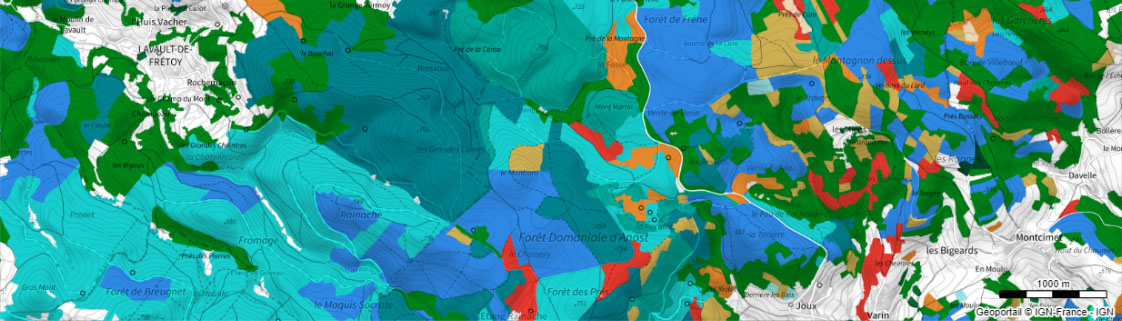
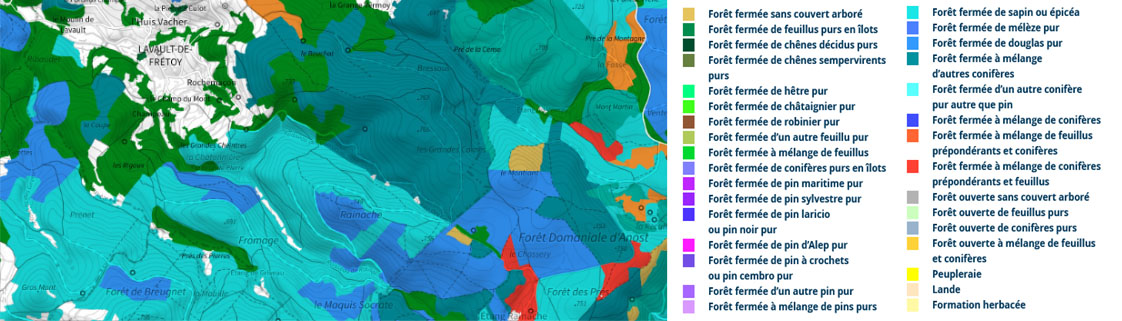
[TYPO]

diff --git a/chap-2/2.3-donnees.md b/chap-2/2.3-donnees.md
@@ -16,7 +16,7 @@ Globe terrestre par Delamarche, 1808 - [BnF](https://gallica.bnf.fr/ark:/12148/b
 L'information géographique est la représentation d'un objet ou d'un phénomène réel ou imaginaire, présent, passé ou futur, localisé dans l'espace à un moment donné (on parle de géolocalisation).
 
 Elle contient une information liée à sa position sur le globe (ou plus généralement dans l'espace) : **sa géométrie** et des informations descriptives sémantiques qui indique sa nature, son aspect, ses propriétés, etc. : **ses attributs**.   
-Dans certains cas, elle peut également contenir des relations avec d'autre objets : c'est le niveau **topologique** (le sens de parcourt, la communication ou non dans un réseau, etc.). Certaines de ces relations peuvent se déduire de la géométrie des objets (inclusions, adjacences, etc.) d'autres nécessitent un encodage particulier.
+Dans certains cas, elle peut également contenir des relations avec d'autre objets : c'est le niveau **topologique** (le sens de parcourt, la communication ou non dans un réseau, etc.). Certaines de ces relations peuvent se déduire de la géométrie des objets (inclusions, adjacences, etc.), d'autres nécessitent un encodage particulier.
 
 {: .idea }
 On parlera de **données vecteur** pour les distinguer des données image (ou raster).
@@ -24,18 +24,18 @@ On parlera de **données vecteur** pour les distinguer des données image (ou ra
 # La géométrie
 
 Points, lignes et surfaces sont les trois possibilités d'implémentation sur un espace en deux dimensions.    
-Ce sont des figurés polysémiques qu'on peut interpréter tantôt comme le référant des objets dans l'espace réel, tantôt comme les variables visuelles qui expriment les rapports de ces objets entre eux.
+Ce sont des figurés polysémiques qu'on interprète tantôt comme la représentation des objets dans l'espace réel (forme), tantôt comme la variable qui exprime les rapports de ces objets entre eux (position).
 
 {: .figure }
 ![](/Macarte-MI/assets/img/ch2.3-geom.png)   
 Barre d'outils de saisie de la géométrie dans Ma carte
 
-Suivant de l'échelle ou du degré d'abstraction utilisé l'une ou l'autre de ces implémentation pourra être utilisée pour un même objet. Ainsi, un point peut représenter une maison, un îlot urbain, une agglomération, etc. suivant l'échelle de la carte. Une route va être vue comme une surface par le cantonnier qui doit la goudronner ou par une ligne reliant deux villes pour l'automobiliste qui la parcourt.
+Suivant l'échelle ou le degré d'abstraction utilisé l'une ou l'autre de ces implémentation pourra être utilisée pour un même objet. Ainsi, un point peut représenter une maison, un îlot urbain, une agglomération, etc. suivant l'échelle de la carte. Une route va être vue comme une surface par le cantonnier qui doit la goudronner ou par une ligne reliant deux villes pour l'automobiliste qui la parcourt.
 
 ## le point
 
 <i class="fg-multipoint fg-3x fleft"></i> Le point traduit aussi bien un objet concret localisé qu'un objet conçu intellectuellement. Il définit les coordonnées géographiques mais peut aussi exprimer une dynamique (pôle de dispersion ou d'attraction).   
-Si on introduit une quatrième dimension (le temps) le point peut être l'emplacement d'un évènement le long d'une ligne à un temps ou une distance donnée (pointeur kilométrique).   
+Si on introduit une quatrième dimension (le temps) le point peut être l'emplacement d'un évènement le long d'une ligne à un temps ou une distance donné (pointeur kilométrique).   
 Il peut être déduit d'une surface (barycentre ou centroïde) pour en simplifier la représentation à certaines échelles.
 
 ## la ligne
@@ -68,9 +68,9 @@ L'annotation du bassin de Thau sur la carte IGN s'appuie sur une géométrie lin
 
 # les attributs 
 
-Les attributs stockent le descriptif des objets géographiques, par exemple, le numéro d'une parcelle, le nom d'une route ou le nombre d'habitant d'une localité.
+Les attributs stockent le descriptif des objets géographiques, par exemple, le numéro d'une parcelle, le nom d'une route ou le nombre d'habitants d'une localité.
 
-Ils se déclinent en trois type de données : descriptive (qui décrive l'objet en propre), qualitative (qui décrive des qualités ou catégories d'un objet) et quantitative (qui mesure un phénomène).
+Ils se déclinent en trois types de données : descriptives (qui décrivent l'objet en propre), qualitatives (qui décrivent des qualités ou catégories d'un objet) et quantitatives (qui mesurent un phénomène).
 
 ## les données descriptives
 
@@ -99,7 +99,7 @@ Données ordinales
 
 ## les données quantitatives 
 
-Les données quantitative exprime une information issue d'une mesure (superficie) ou d'un dénombrement (population).
+Les données quantitative expriment une information issue d'une mesure (superficie) ou d'un dénombrement (population).
 
 {: .center }
 Données quantitatives
@@ -108,61 +108,70 @@ Données quantitatives
 |:-----:|:-----:|:-------:|
 | production <br/> ![](/Macarte-MI/assets/img/ch2.3-quantit-pt.png) | écoulement <br/> ![](/Macarte-MI/assets/img/ch2.3-quantit-ln.png) | précipitations <br/>  ![](/Macarte-MI/assets/img/ch2.3-quantit-pl.png) |
 
-On distingue les données quantitatives absolues (population, nombre de commerces) et relatives qui représente un rapport d'une donnée absolue sur un référentiel (densité, taux).
+On distingue les données quantitatives absolues (population, nombre de commerces) et relatives qui représentent un rapport d'une donnée absolue sur un référentiel (densité, taux).
 
 ## la discrétisation
 
-Principalement utilisée en statistique, la discrétisation est une réduction de l'information pour apporter une simplification dans le but généralement d'améliorer la lisibilité. Cela va permettre de découper une série statistique en classes ou transformer une variable continue en variable discrète plus facilement interprétable.
+Principalement utilisée en statistique, la discrétisation est une réduction de l'information pour apporter une simplification dans le but, généralement, d'améliorer la lisibilité. Cela va permettre de découper une série statistique en classes ou transformer une variable continue en variable discrète plus facilement interprétable.
 
-Le choix des classes (regroupement), série (combinaison de données) ou seuil (limite entre deux classes) est primordiale et est nécessairement un compromis entre la rigueur mathématique et la représentation cartographique.
+Le choix des classes (regroupement), séries (combinaisons de données) ou seuils (limites entre deux classes) est primordiale et est nécessairement un compromis entre la rigueur mathématique et la représentation cartographique.
 
 # les couches
 
-<i class="fg-layers fg-3x fleft"></i> Les données géographiques (géométrie et attributs) sont regroupées dans des couches pour en faciliter la gestion. Pour des raisons de commodités, celles-ci forment un regroupement thématique ou organisationnel qui permet de manipuler d'un bloc l'ensemble les données qu'elles contiennent (afficher, changer leur ordre d'affichage, appliquer une symbolisation, etc.).   
+<i class="fg-layers fg-3x fleft"></i> Les données géographiques (géométrie et attributs) sont regroupées dans des couches pour en faciliter la gestion. Pour des raisons de commodité, celles-ci forment un regroupement thématique ou organisationnel qui permet de manipuler d'un bloc l'ensemble les données qu'elles contiennent (afficher, changer l'ordre d'affichage, appliquer une symbolisation, etc.).   
 Une couche peut parfois se limiter à un type de géométrie spécifique (couche de point, couche d'annotations) et avoir un ensemble d'attributs ou de règles de représentation spécifiques et imposés.
 
-Les couches de référence ou de dessin sont disponible dans le gestionnaire de couche (pour en modifier l'ordre, la visibilité ou la transparence par exemple). Elles sont parfois appelées "*calques*" par analogie aux papiers calques qu'on superpose dans un processus de reproduction pour former une image.
+Les couches de référence ou de dessin sont disponibles dans le gestionnaire de couche (pour en modifier l'ordre, la visibilité ou la transparence par exemple). Elles sont parfois appelées "*calques*" par analogie aux papiers calques qu'on superpose dans un processus de reproduction pour former une image.
 
+{: .center .small .shadow }
+![](/Macarte-MI/assets/img/ch2.3-switcher.png)   
+Gestionnaire de couche de Ma carte
 
 # Où trouver des données ?
 
-Si on peut saisir des objets à la main dans les éditeurs cartographique, la question qui se pose assez rapidement est « Où trouver des données ? »   
-C'est d'autant plus légitime qu'avec l'ouverture des données ([mouvement Opendata](https://www.cnil.fr/fr/publication-en-ligne-et-reutilisation-des-donnees-publiques-open-data)) le nombre d'organisme et de plateforme proposant de télécharger des données s'est multiplié sur le web.   
-En dehors des flux cartographiques mis à disposition que nous avons [vu précédemment](/Macarte-MI/chap-2/2.1-fonds.html), on peut ainsi télécharger directement des données à caractère géographique via des fichiers diffusés sur le net. On distinguera les formats de données géographique, exploitable directement, qui contiennent la représentation géométrique des objets et les données attributaires qui demanderont un traitement préalable pour être affiché sur une carte.
+Si on peut saisir des objets à la main dans les éditeurs cartographiques, la question qui se pose assez rapidement est « Où trouver des données ? »   
+C'est d'autant plus légitime qu'avec l'ouverture des données ([mouvement open data](https://www.cnil.fr/fr/publication-en-ligne-et-reutilisation-des-donnees-publiques-open-data)) le nombre d'organismes et de plateformes proposant de télécharger des données s'est multiplié sur le web.   
+En dehors des flux cartographiques mis à disposition que nous avons [vu précédemment](/Macarte-MI/chap-2/2.1-fonds.html#choisir-ses-fonds), il est aujourd'hui possible de télécharger directement des données à caractère géographique via des fichiers diffusés sur le net. On distinguera les formats de données géographiques, exploitables directement, qui contiennent la représentation géométrique des objets et les données attributaires qui demanderont un traitement préalable pour être affiché sur une carte.
 
 ## Les données géographiques
 
 Ces données contenant toute l'information nécessaire à la géographique, il suffit généralement de glisser-déposer le fichier sur l'[éditeur de carte](https://macarte.ign.fr/edition/carte/) pour les voir s'afficher sur la carte.
 
-A l'inverse, vous pouvez exporter les données saisies dans Ma carte dans le dialogue de configuration la couche <i class="fa fa-cog outline"></i> dans le gestionnaire de calques) et en cliquant sur l'icône d'export <i class="fa fa-download"></i>.
+A l'inverse, vous pouvez exporter les données saisies dans Ma carte dans le dialogue de configuration de la couche (<i class="fi-configuration fa-fw"></i> dans le gestionnaire de calques) en cliquant sur l'icône d'export <i class="fi-download fa-fw"></i>.
 
 ### le GPX
 
-Le format GPX, acronyme de GPS eXchange Format, est le format de prédilection des GPS et autre appareils permettant d'enregistre votre localisation.
-Le fichier GPX enregistre la liste de points de cheminements (latitude, longitude, altitude et éventuellement un horodatage) et conviendra pour échanger des points de rendez-vous ou des cheminements.
+Le format GPX, acronyme de GPS eXchange Format, est le format de prédilection des GPS et autre appareils permettant d'enregistrer votre localisation.   
+Le fichier GPX enregistre la liste des points de cheminement (latitude, longitude, altitude et éventuellement un horodatage) et conviendra pour échanger des points de rendez-vous ou des parcours.
 
 Il peut contenir des points (waypoint) ou des lignes, sous forme d'itinéraires (routes) ou de traces (tracks). Il ne peut pas contenir de surfaces.
 
 ### le KML
 
-Le format KML, pour Keyhole Markup Language, est destiné à la gestion de l'affichage de données géospatiales. Il permet de stocker toutes les données géospatiale ainsi que des informations sur le style (couleur, largeur de ligne, etc.).   
-Initialement développé par Keyhole Inc. (racheté par Google en 2004) le format est, depuis 2008, normalisé par l'[Open Geospatial Consortium](https://www.ogc.org/standard/kml/).
+Le format KML, pour Keyhole Markup Language, est destiné à la gestion de l'affichage de données géospatiales. Il permet de stocker toutes les données géospatiales ainsi que des informations sur le style (couleur, largeur de ligne, etc.).   
+Initialement développé par la société Keyhole Inc. (racheté par Google en 2004), il est, depuis 2008, normalisé par l'[Open Geospatial Consortium](https://www.ogc.org/standard/kml/).
 
 ### le GeoJSON
 
-Le GeoJSON est le format de prédilection des données géospatiales sur le web. Extensible, il peut décrire tout type d'information géographique et, lorsque vous en avez la possibilité, c'est le format à privilégié.
+Le GeoJSON (litt. JSON géographique) est le format ouvert par excellence des données géospatiales sur le web. Extensible, il peut décrire tout type d'information géographique et, lorsque vous en avez la possibilité, c'est le format à privilégier.
 
 ### le format shape
 
-Le shapefile, ou « fichier de formes » est un format de fichier pour les systèmes d'informations géographiques (SIG). Initialement développé par ESRI pour ses logiciels commerciaux, ce format est désormais devenu un standard de facto, dont les spécifications sont ouvertes.   
+Le Shapefile (litt. fichier de formes) est un format de fichier pour les systèmes d'informations géographiques (SIG). Initialement développé par ESRI pour ses logiciels commerciaux, ce format est désormais devenu un standard de facto, dont les spécifications sont ouvertes.   
 
 Si son extension est classiquement SHP, il est en fait constitué de plusieurs fichiers dont un fichier qui stocke la donnée attributaire (dbf) et la géométrie (shx), ce qui complique son utilisation dans des outils web.
 
 Il n'est pas reconnu par Ma carte et il faudra passer par une application tierce pour le transformer en GeoJSON par exemple.
 
+### les Géopackages
+
+Le GeoPackage (litt. geo-paquet) est un format de fichier pour les systèmes d'informations géographiques (SIG). Un GeoPackage (*.gpkg) est construit comme un fichier de base de données SQLite qui contient les tables de données. Spécialement conçu pour être aussi léger que possible, il se présente sous la forme d'un fichier unique, ce qui le rend particulièrement efficace.
+
+Il n'est pas reconnu par Ma carte.
+
 ### les flux WFS
 
-Ce ne sont pas à proprement parlé des fichiers de données (puisque ce sont des flux) mais, comme ils intègrent des données vecteurs, on peut y récupérer de l'information utile dans Ma carte. Pour cela, il vous suffira d'ajouter la couche WFS à la carte, de sélectionner le ou les objets qui vous intéressent et de les copier-coller dans votre couche de dessin. Ils seront accessibles comme des objets standards et vous pouvez les modifier à votre guise (et supprimer la couche WFS si vous n'en avez plus l'utilité).
+Ce ne sont pas à proprement parlé des fichiers de données (puisque ce sont des flux) mais, comme ils intègrent des données vecteurs, on peut y récupérer de l'information utile dans Ma carte. Pour cela, il vous suffira d'ajouter la couche WFS à la carte, de sélectionner le ou les objets qui vous intéressent et de les copier-coller dans votre couche de dessin. Ils seront accessibles comme des objets standards et vous pourrez les modifier à votre guise (et supprimer la couche WFS quand vous n'en aurez plus l'utilité).
 
 <iframe width="560" height="315" src="https://www.youtube.com/embed/QdcOrxRe36Y" title="YouTube video player" frameborder="0" allow="accelerometer; autoplay; clipboard-write; encrypted-media; gyroscope; picture-in-picture; web-share" allowfullscreen></iframe>
 

diff --git a/chap-1/1.2-classification.md b/chap-1/1.2-classification.md
@@ -95,7 +95,8 @@ La carte doit être mise à jour chaque fois qu'un nouvel objet est ajouté à l
 
 {: .center .small }
 ![](/Macarte-MI/assets/img/ch1.2-ifn.jpg)
-Carte de l'[Inventaire forestier](https://inventaire-forestier.ign.fr/spip.php?article646)
+Carte de la [BDForêt de l'Inventaire forestier](https://inventaire-forestier.ign.fr/spip.php?article646)   
+une nomenclature nationale en trente-deux postes
 
 ## la carte de traitement
 
